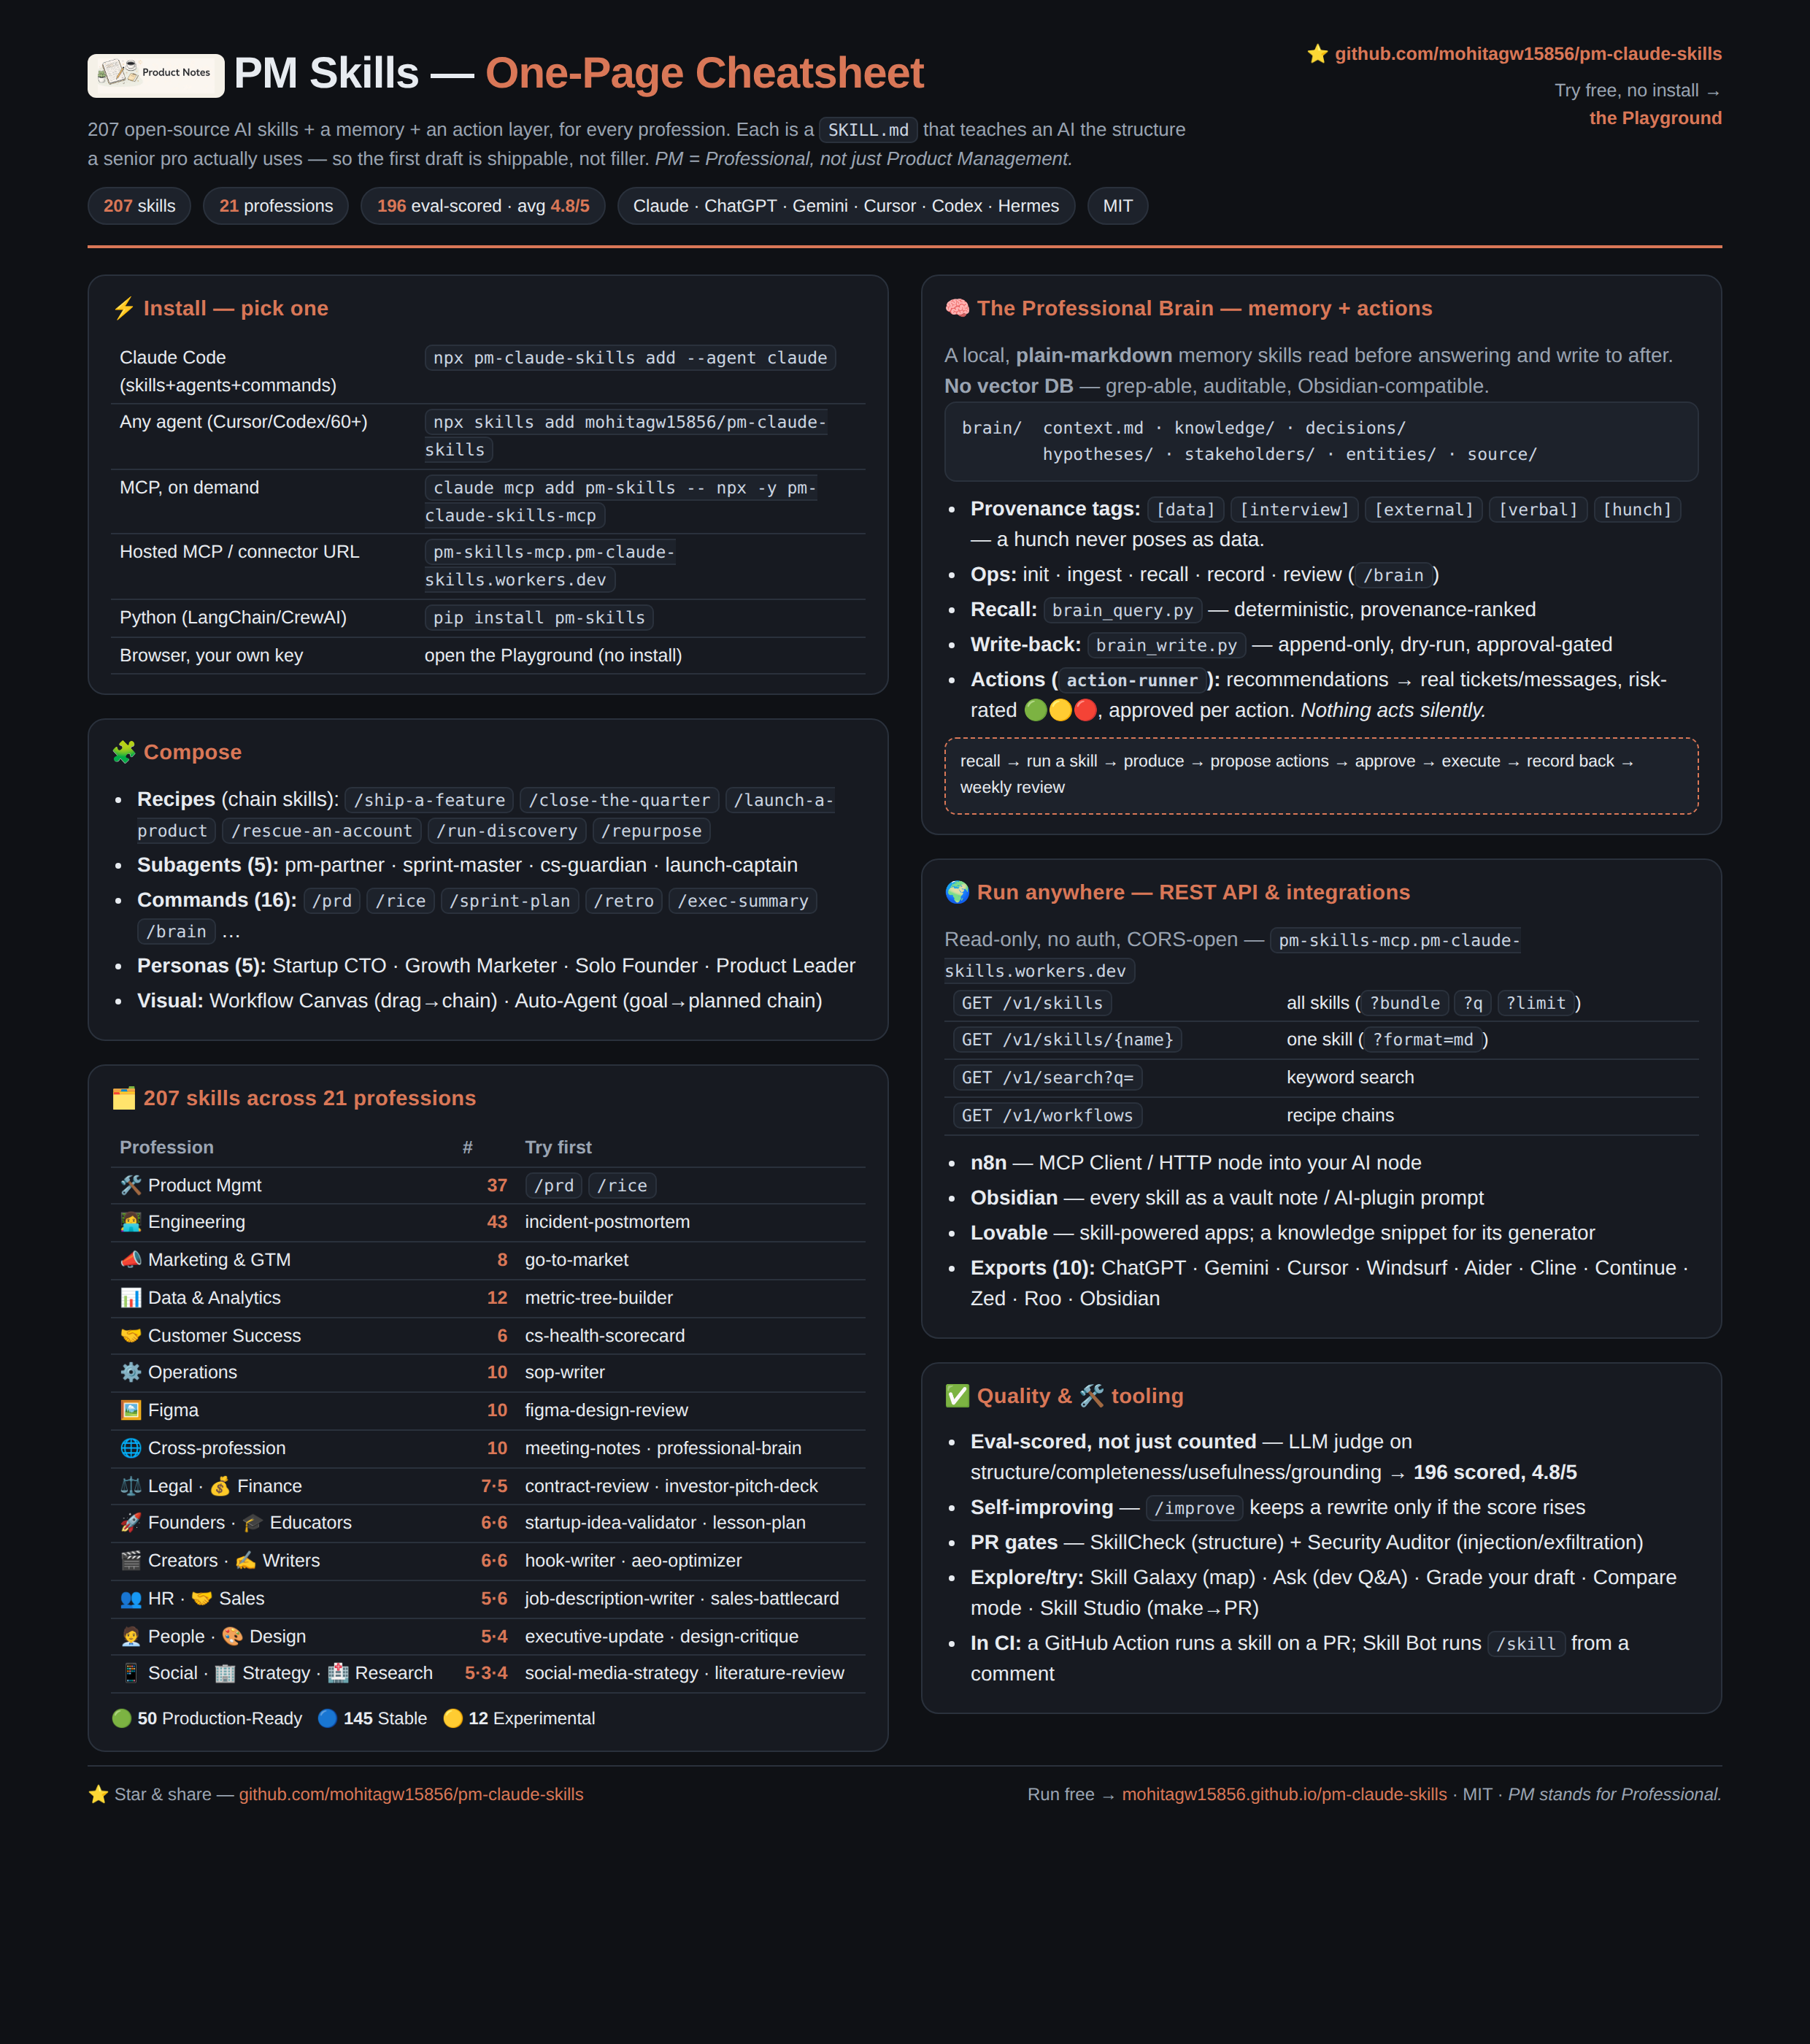
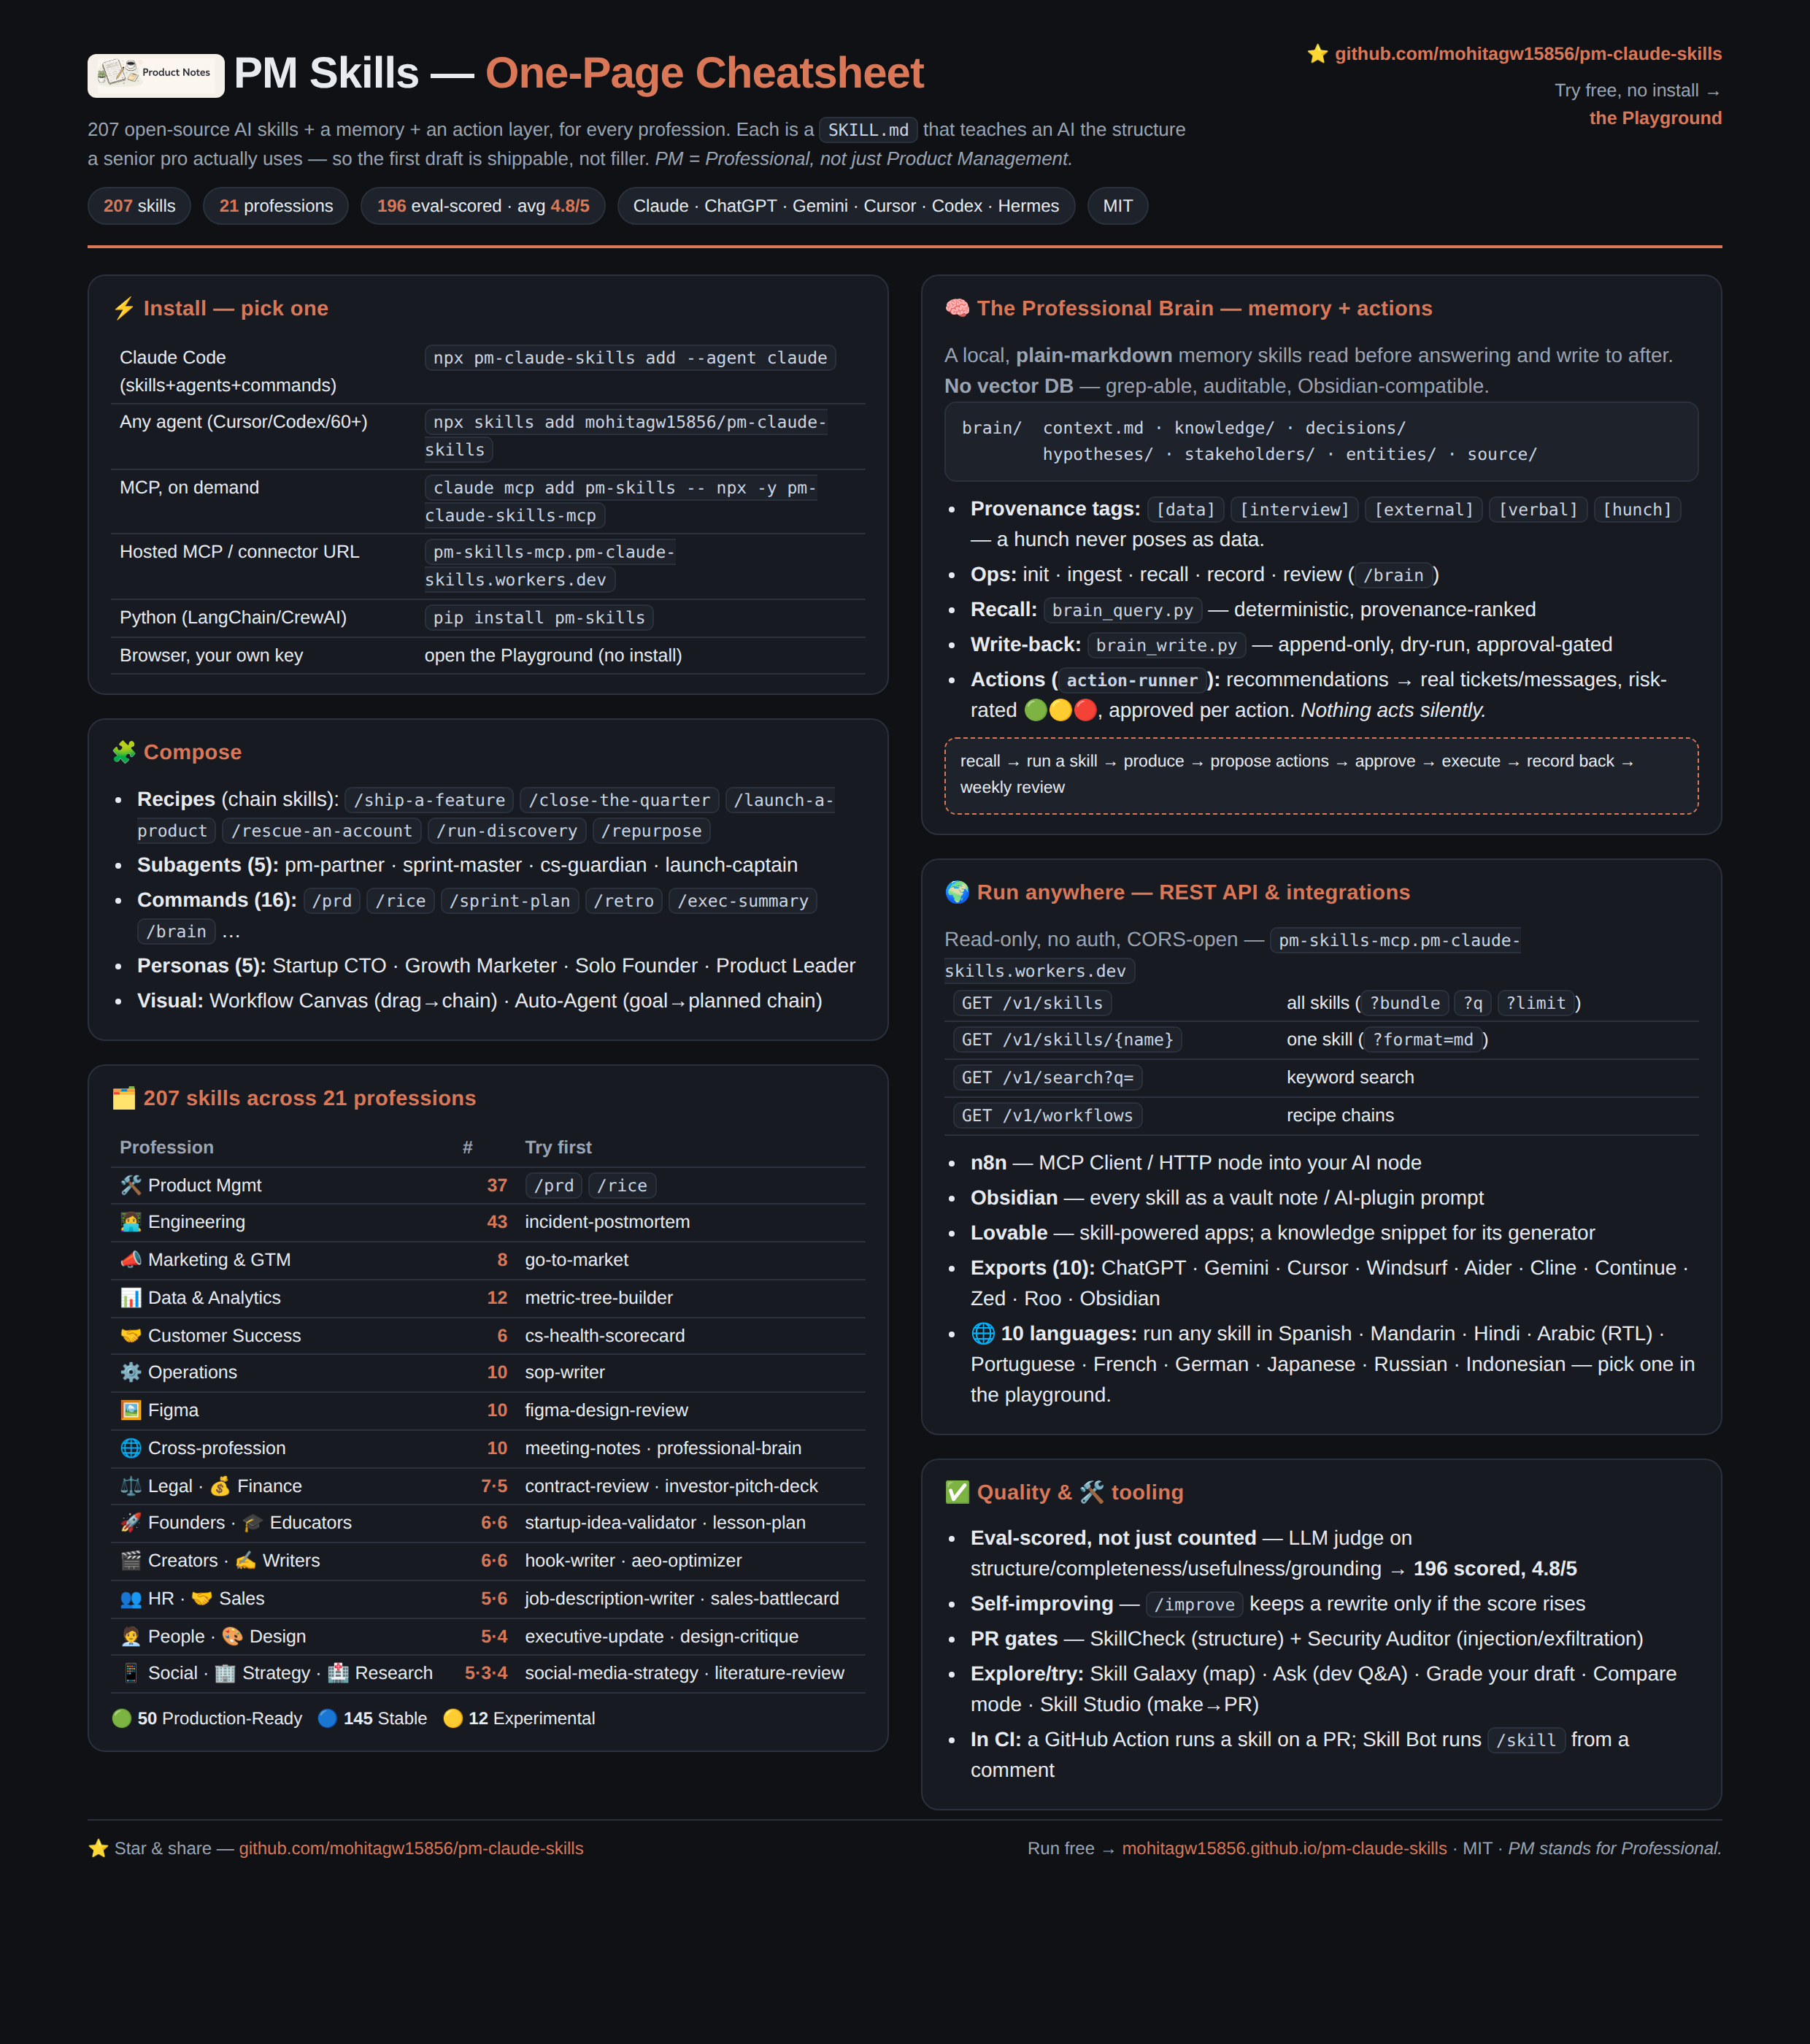
docs: surface multilingual output in the cheatsheet & guide
- CHEATSHEET.md / cheatsheet.html: a "🌐 Any language" line (10 languages,
  incl. RTL Arabic); tag the playground links with ?ref=cheatsheet.
- guide.html: a "Not in English?" callout in Get Started.
- Regenerate cheatsheet.png/.pdf and PM-Skills-Guide.pdf.

Changed region(s): [[0.5278, 0.6525, 0.9315, 0.9321], [0.0621, 0.87, 0.3105, 0.9321], [0.9004, 0.8079, 0.9315, 0.8389]]

diff --git a/web/cheatsheet.html b/web/cheatsheet.html
@@ -76,7 +76,7 @@
     </div>
     <div class="repo">
       ⭐ <a href="https://github.com/mohitagw15856/pm-claude-skills">github.com/mohitagw15856/pm-claude-skills</a>
-      <div class="qr">Try free, no install →<br><a href="https://mohitagw15856.github.io/pm-claude-skills/">the Playground</a></div>
+      <div class="qr">Try free, no install →<br><a href="https://mohitagw15856.github.io/pm-claude-skills/?ref=cheatsheet">the Playground</a></div>
     </div>
   </header>
 
@@ -158,6 +158,7 @@
         <li><b>Obsidian</b> — every skill as a vault note / AI-plugin prompt</li>
         <li><b>Lovable</b> — skill-powered apps; a knowledge snippet for its generator</li>
         <li><b>Exports (10):</b> ChatGPT · Gemini · Cursor · Windsurf · Aider · Cline · Continue · Zed · Roo · Obsidian</li>
+        <li><b>🌐 10 languages:</b> run any skill in Spanish · Mandarin · Hindi · Arabic (RTL) · Portuguese · French · German · Japanese · Russian · Indonesian — pick one in the playground.</li>
       </ul>
     </div>
 
@@ -176,7 +177,7 @@
 
   <footer>
     <div>⭐ Star &amp; share — <a href="https://github.com/mohitagw15856/pm-claude-skills">github.com/mohitagw15856/pm-claude-skills</a></div>
-    <div>Run free → <a href="https://mohitagw15856.github.io/pm-claude-skills/">mohitagw15856.github.io/pm-claude-skills</a> · MIT · <i>PM stands for Professional.</i></div>
+    <div>Run free → <a href="https://mohitagw15856.github.io/pm-claude-skills/?ref=cheatsheet">mohitagw15856.github.io/pm-claude-skills</a> · MIT · <i>PM stands for Professional.</i></div>
   </footer>
 </div>
 </body>

diff --git a/web/guide.html b/web/guide.html
@@ -155,6 +155,7 @@
     <tr><td>ChatGPT / Gemini (copy-paste)</td><td>paste an export from <code>exports/</code> into a Custom GPT / Gem</td></tr>
   </table>
   <p class="muted">Everything is one source of truth: the same skill body powers all of these.</p>
+  <div class="callout"><b>🌐 Not in English?</b> Pick an <b>output language</b> in the playground and any skill responds in it — Spanish, Mandarin, Hindi, Arabic <i>(right-to-left)</i>, Portuguese, French, German, Japanese, Russian, or Indonesian. The frameworks are universal; the model localizes the whole output.</div>
 </section>
 
 <!-- 4 -->

diff --git a/CHEATSHEET.md b/CHEATSHEET.md
@@ -4,7 +4,7 @@
 # 🧠 PM Skills — One-Page Cheatsheet
 
 **207 open-source AI skills + memory + actions, for every profession.** MIT.
-**Repo:** https://github.com/mohitagw15856/pm-claude-skills · **Try free (no install):** https://mohitagw15856.github.io/pm-claude-skills/
+**Repo:** https://github.com/mohitagw15856/pm-claude-skills · **Try free (no install):** https://mohitagw15856.github.io/pm-claude-skills/?ref=cheatsheet
 
 > *PM = Professional, not just Product Management.* Each skill is a `SKILL.md` that teaches an AI the real
 > structure a senior pro uses — PRDs, exec updates, launch plans, postmortems — so the first draft is shippable.
@@ -53,6 +53,7 @@
 - **Slash commands (16):** `/prd` `/rice` `/sprint-plan` `/retro` `/exec-summary` `/health-scorecard` `/brain` … + the recipes above
 - **Personas (5):** Startup CTO · Growth Marketer · Solo Founder · Product Leader (`/output-style`)
 - **Build visually:** [Workflow Canvas](https://mohitagw15856.github.io/pm-claude-skills/canvas.html) (drag skills into a chain) · [Auto-Agent](https://mohitagw15856.github.io/pm-claude-skills/agent.html) (plain-English goal → planned chain)
+- **🌐 Any language:** run any skill in **10 languages** (Spanish · Mandarin · Hindi · Arabic *(RTL)* · Portuguese · French · German · Japanese · Russian · Indonesian) — pick a language in the playground; the frameworks are universal.
 
 ---
 